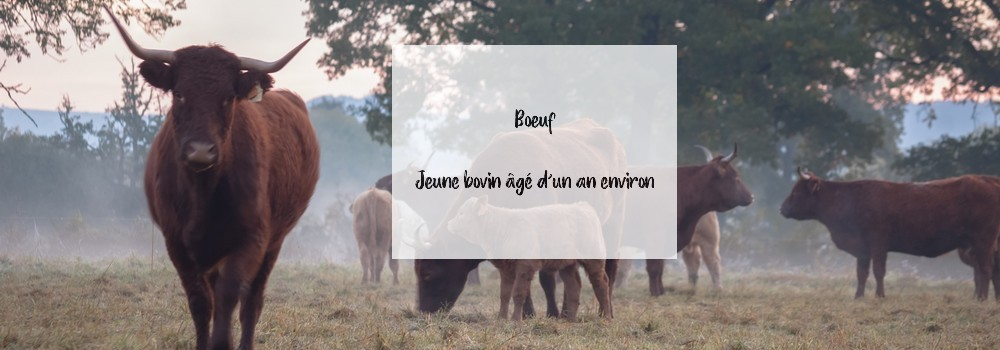
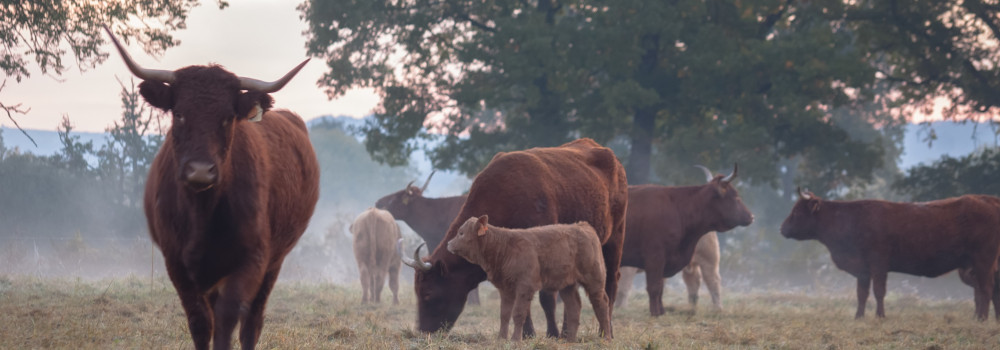
Add: Product descriptions on slider images

diff --git a/assets/css/main.css b/assets/css/main.css
@@ -3190,9 +3190,73 @@
 	}
 
 
-/* Custom */
+/* Custom slider */
 
 a.prev, a.next
 {
 	border-bottom: none;
 }
+
+.mySlides
+{
+	position: relative;
+}
+
+.sliderImgDescription
+{
+	position: absolute;
+	top: 23%;
+	left: 43%;
+	width: 250px;
+	height: 250px;
+	padding: 15px;
+	background: rgba(255, 255, 255, 0.85) ;
+	font-family: Arial;
+	color: #161616;
+	line-height: 20px;
+}
+
+.sliderImgDescription h1
+{
+	font-size: 30px;
+	color: #aa393f;
+	text-align: center;
+	margin-bottom: 25px;
+	line-height: 20px;
+}
+
+.sliderImgDescription h2
+{
+	font-size: 20px;
+	text-align: center;
+	margin-bottom: 25px;
+	line-height: 20px;
+}
+
+.sliderImgDescription .sliderImgDescriptionPrice
+{
+	font-size: 26px;
+	font-weight: bold;
+	float: right;
+	margin-bottom: 25px;
+}
+
+.sliderImgDescription .sliderImgDescriptionPriceMin
+{
+	font-size: 18px;
+}
+
+.sliderImgDescription p
+{
+	float: none;
+	clear: both;
+	font-size: 14px;
+}
+
+.sliderImgDescription p .sliderImgDescriptionStrong
+{
+	font-size: 15px;
+	font-weight: bold;
+}
+
+

diff --git a/footer.html b/footer.html
@@ -5,7 +5,7 @@
     <!-- Copyright -->
     <div class="copyright">
         <ul class="menu">
-            <li>&copy; Untitled. All rights reserved</li><li>Site from : DovahSagar</li>
+            <li>&copy; Gaec de la Patouze. All rights reserved</li><li>Site from : DovahSagar</li>
         </ul>
     </div>
 

diff --git a/index.php b/index.php
@@ -30,15 +30,31 @@
             <div class="slideshow-container">
                 <!-- Full-width images with number and caption text -->
                 <div class="mySlides fade">
-                    <img src="images/slider1.jpg" style="width:100%">
+                    <img class="sliderImg" src="images/slider1.jpg" style="width:100%">
+                    <div class="sliderImgDescription">
+                        <h1>Boeuf</h1>
+                        <h2>Jeune bovin âgé d'un an environ</h2>
+                        <span class="sliderImgDescriptionPrice">10,50€<span class="sliderImgDescriptionPriceMin">/kg</span></span>
+                        <p>
+                            <span class="sliderImgDescriptionStrong">Colis de 10kg</span> environ, étiqueté par catégorie de viande.
+                        </p>
+                    </div>
                 </div>
 
                 <div class="mySlides fade">
-                    <img src="images/slider2.jpg" style="width:100%">
+                    <img class="sliderImg" src="images/slider2.jpg" style="width:100%">
+                    <div class="sliderImgDescription">
+                        <h1>Veau</h1>
+                        <h2>Rosé élevé sous la mère</h2>
+                        <span class="sliderImgDescriptionPrice">13,00€<span class="sliderImgDescriptionPriceMin">/kg</span></span>
+                        <p>
+                            <span class="sliderImgDescriptionStrong">Colis de 5 ou de 10kg</span> environ, étiqueté par catégorie de viande.
+                        </p>
+                    </div>
                 </div>
 
                 <div class="mySlides fade">
-                    <img src="images/slider3.jpg" style="width:100%">
+                    <img class="sliderImg" src="images/slider3.jpg" style="width:100%">
                 </div>
 
                 <!-- Next and previous buttons -->
